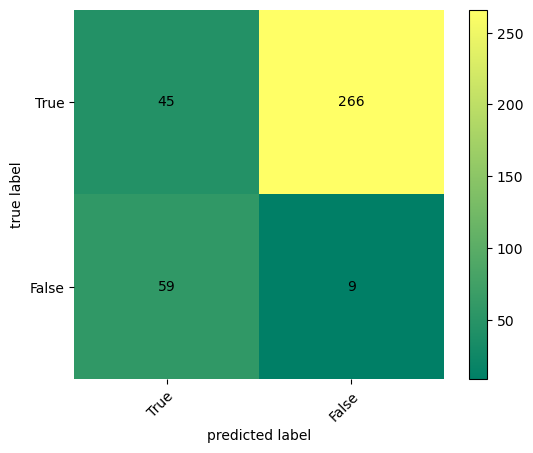
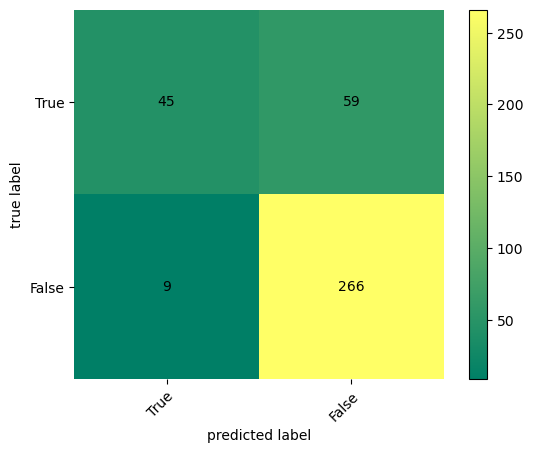
wtf

diff --git a/src/analysis/DataStatistics.py b/src/analysis/DataStatistics.py
@@ -118,7 +118,7 @@ def calc_metrics(matrix, total):
     
   FP = total - TP - TN - FN
   
-  arr = np.array([[TP,TN],[FP,FN]],
+  arr = np.array([[TP,FP],[FN,TN]],
                  dtype=np.int64)
   return arr
 
